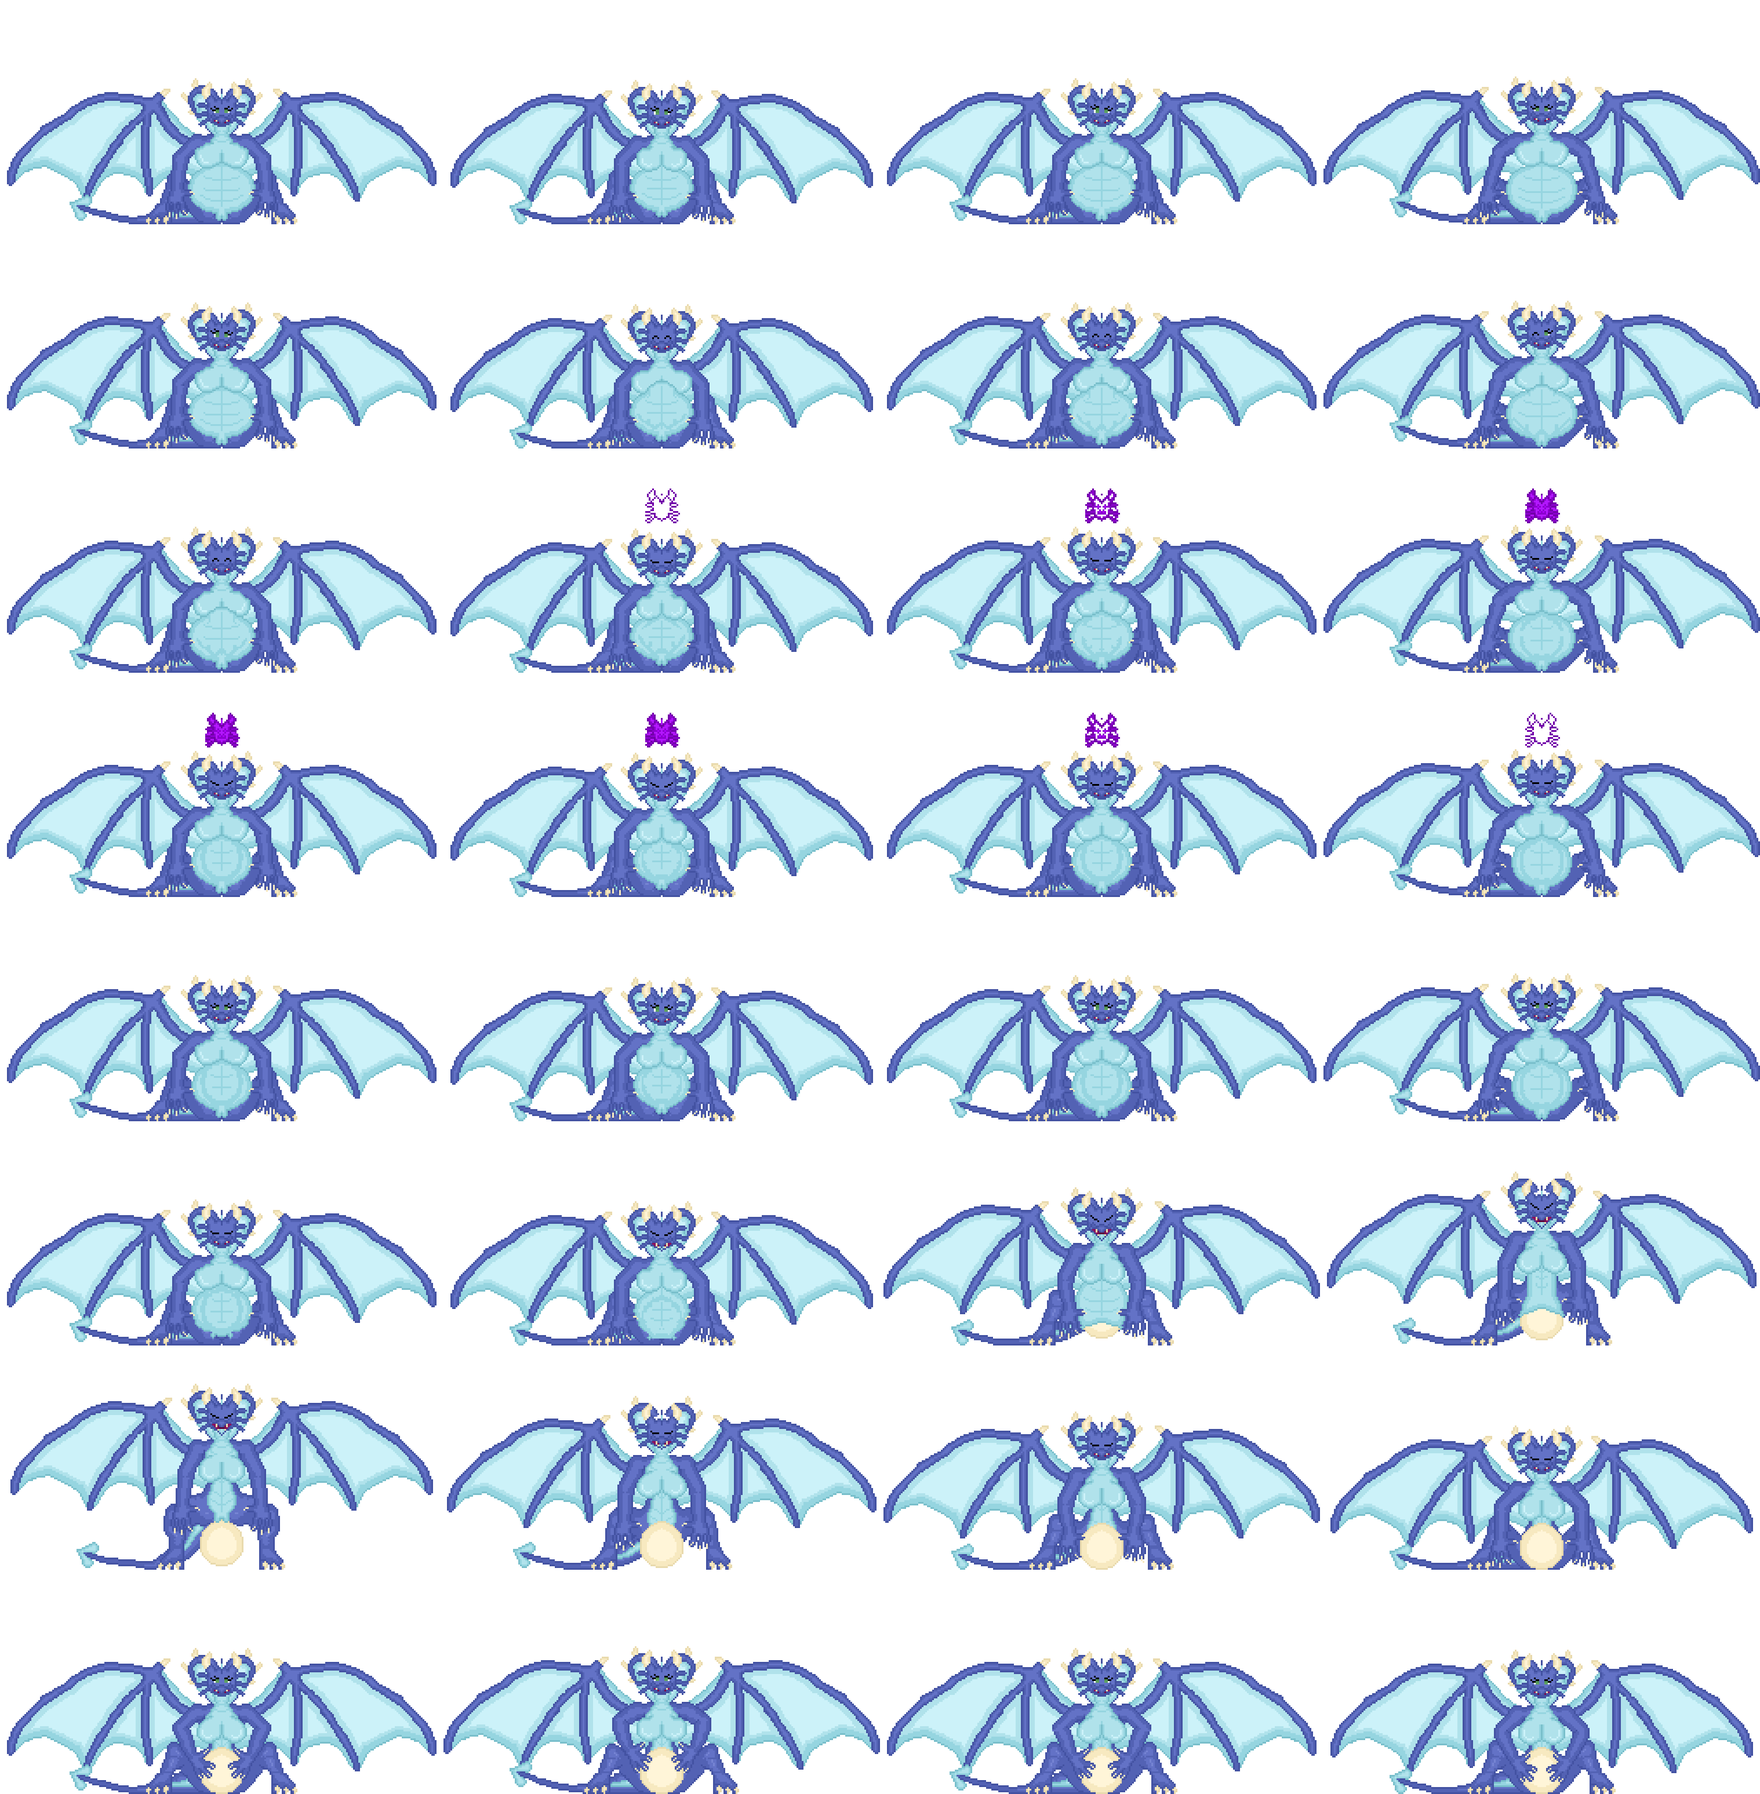
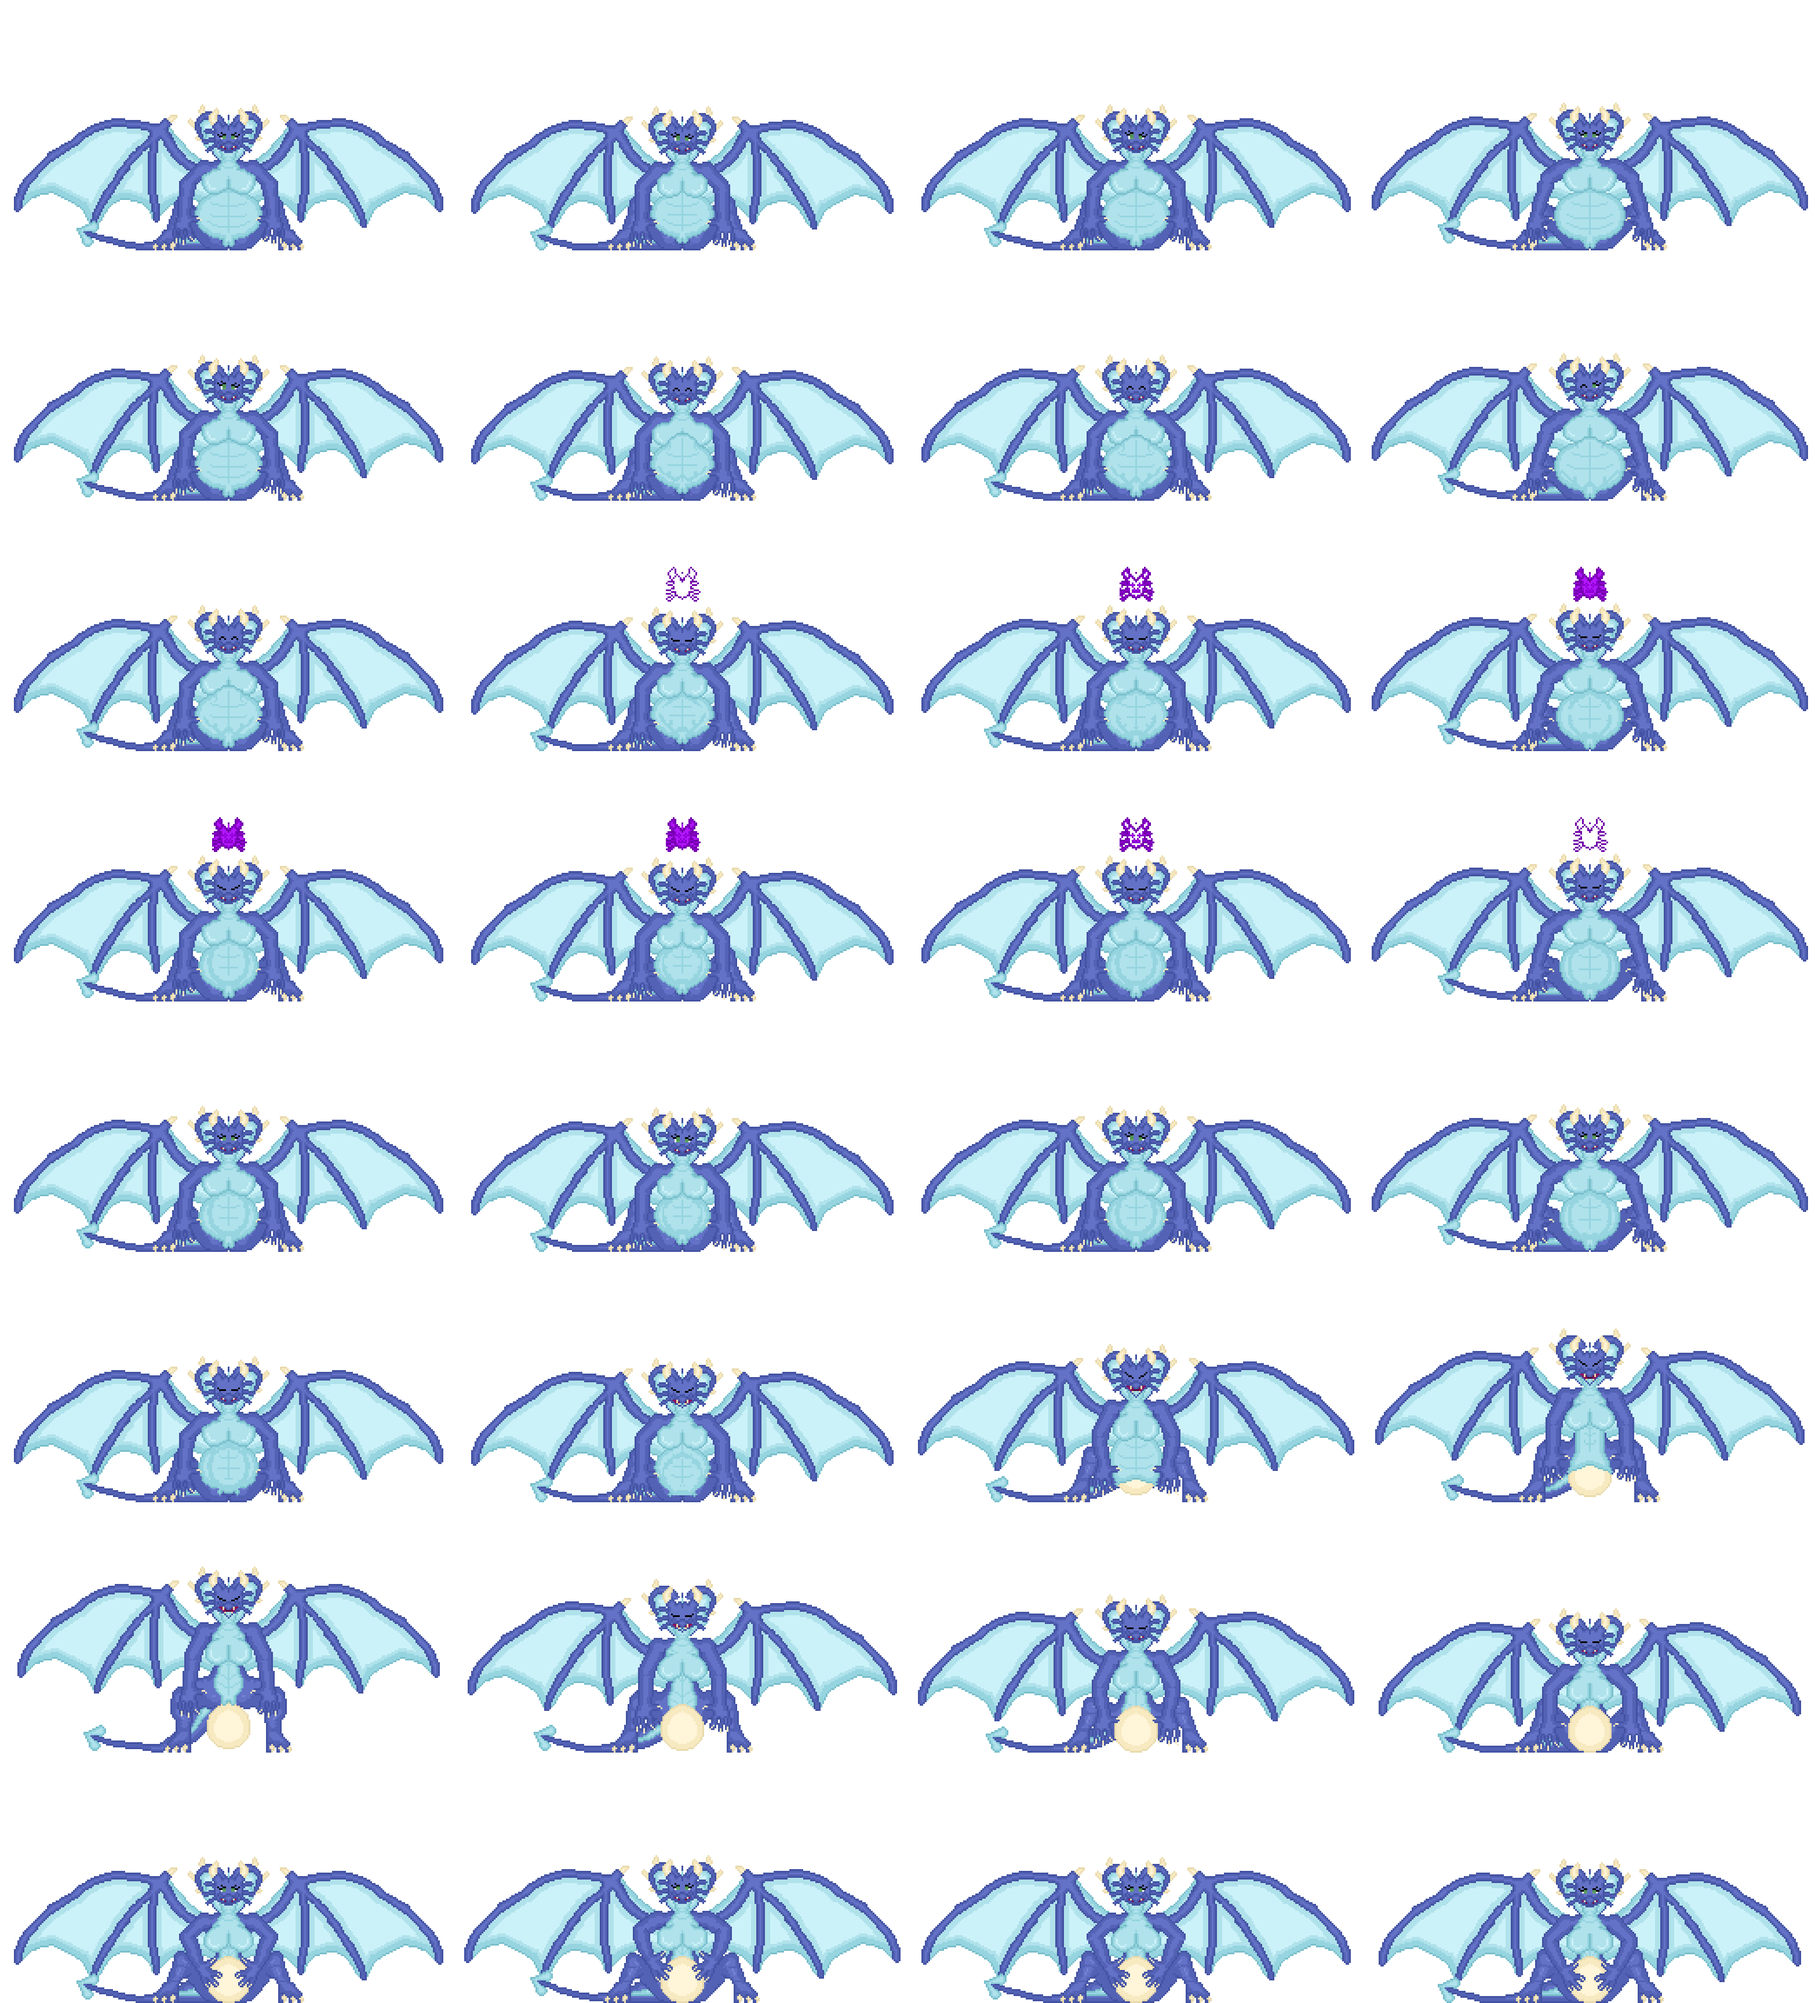
saving
istara TF MALE complete, now needs gameover

diff --git a/scripts/npcScripts/istara.js b/scripts/npcScripts/istara.js
@@ -8,10 +8,17 @@ class istara extends npc{
       this.anims.create({key: 'istaraUnderWater',frames: this.anims.generateFrameNames('istara', { start: 0, end: 0 }),frameRate: 7,repeat: -1});
       this.anims.create({key: 'istaraEmerge',frames: this.anims.generateFrameNames('istara', { start: 0, end: 15 }),frameRate: 7,repeat: 0});
       this.anims.create({key: 'istaraIdle',frames: this.anims.generateFrameNames('istara', { start: 16, end: 23 }),frameRate: 7,repeat: -1});
+
       this.anims.create({key: 'istaraStart',frames: this.anims.generateFrameNames('istara-male-tf', { start: 0, end: 3 }),frameRate: 7,repeat: -1});
-      this.anims.create({key: 'istaraEntering',frames: this.anims.generateFrameNames('istara-male-tf', { start: 4, end: 23 }),frameRate: 7,repeat: 0});
-      this.anims.create({key: 'istaraBelly1',frames: this.anims.generateFrameNames('istara-male-tf', { start: 24, end: 27 }),frameRate: 7,repeat: -1});
-      this.anims.create({key: 'istaraBelly2',frames: this.anims.generateFrameNames('istara-male-tf', { start: 28, end: 31 }),frameRate: 7,repeat: -1});
+      this.anims.create({key: 'istaraEntering',frames: this.anims.generateFrameNames('istara-male-tf', { start: 4, end: 22 }),frameRate: 7,repeat: 0});
+      this.anims.create({key: 'istaraGameover',frames: this.anims.generateFrameNames('istara-male-tf', { start: 23, end: 26 }),frameRate: 7,repeat: -1});
+      
+      this.anims.create({key: 'istaraBelly1',frames: this.anims.generateFrameNames('istara-gestate-tf', { start: 0, end: 3 }),frameRate: 7,repeat: -1});
+      this.anims.create({key: 'istaraBelly2',frames: this.anims.generateFrameNames('istara-gestate-tf', { start: 5, end: 8 }),frameRate: 7,repeat: -1});
+      this.anims.create({key: 'istaraEggTF',frames: this.anims.generateFrameNames('istara-gestate-tf', { start: 9, end: 15 }),frameRate: 7,repeat: 0});
+      this.anims.create({key: 'istaraEggBelly',frames: this.anims.generateFrameNames('istara-gestate-tf', { start: 16, end: 19 }),frameRate: 7,repeat: -1});
+      this.anims.create({key: 'istaraEggLaying',frames: this.anims.generateFrameNames('istara-gestate-tf', { start: 20, end: 27 }),frameRate: 7,repeat: 0});
+      this.anims.create({key: 'istaraEggCovet',frames: this.anims.generateFrameNames('istara-gestate-tf', { start: 28, end: 31 }),frameRate: 7,repeat: -1});
 
        //makes a key promptsa object to be displayed to the user
        this.npcKeyPrompts = new keyPrompts(scene, xPos, yPos + 50,'keyPrompts');
@@ -29,6 +36,7 @@ class istara extends npc{
 
        this.flag = "";
        this.dialogueCompleted = false;
+       this.dialogueAdded = false;
        this.completedText = false;
 
        this.animationPlayed = false;
@@ -376,8 +384,9 @@ class istara extends npc{
         this.inDialogue = true;
         
       // if the dialogue stage is at 14 and the player said yes, then add the unbirthing dialogue.
-      }else if(this.scene.sceneTextBox.amountWIsPressed === 14 && this.yes === true){
+      }else if(this.scene.sceneTextBox.amountWIsPressed === 14 && this.yes === true && this.dialogueAdded === false){
 
+          this.dialogueAdded = true;
           this.profileArray.push('istaraHappy');
           this.profileArray.push('istaraHappy');
           this.profileArray.push('istaraSquish');
@@ -388,7 +397,10 @@ class istara extends npc{
           this.profileArray.push('istaraSquish');
           this.profileArray.push('istaraSquish');
           this.profileArray.push('istaraHappy');
+          this.profileArray.push('istaraHappy');
+          this.profileArray.push('istaraHappy');
 
+          //note need to fix bug where the dialogue is added multiple times?
 
           this.textToDisplay += 
           'AWWW YOUR SO CUTE DOWN   '+
@@ -434,6 +446,7 @@ class istara extends npc{
           'ILL KEEP YOU SAFE MY     '+
           'PRECIOUS CHILD.          '+
           '                         ';
+          
       
       //handle animation 
       }else if(this.scene.sceneTextBox.amountWIsPressed === 15 && this.yes === true){
@@ -469,9 +482,53 @@ class istara extends npc{
           this.scene.sceneTextBox.progressDialogue();
         });
 
-      }else if(this.scene.sceneTextBox.amountWIsPressed === 19 && this.yes === true){
+      }else if(this.scene.sceneTextBox.amountWIsPressed === 21 && this.yes === true){
         
         this.anims.play('istaraBelly2',true);
+
+      }else if(this.scene.sceneTextBox.amountWIsPressed === 24 && this.yes === true && this.animationPlayed === false){
+        
+        //hide player
+        this.scene.player1.visible = false;
+        this.animationPlayed = true;
+
+        //apply interuption to dialogue
+        this.scene.sceneTextBox.textInterupt = true;
+
+        //hide ui and dialogue box.
+        this.scene.sceneTextBox.visible = false;
+
+        //play animation and on complete allow w to be pressed.
+        this.anims.play('istaraEggTF').once('animationcomplete', () => {
+          this.anims.play('istaraEggBelly',true);
+          this.scene.sceneTextBox.amountWIsPressed++;
+          this.scene.sceneTextBox.textInterupt = false;
+          this.animationPlayed = false;
+          //progress the dialogue by one stage so the button moves dialogue forward.
+          this.scene.sceneTextBox.progressDialogue();
+        });
+
+      }else if(this.scene.sceneTextBox.amountWIsPressed === 26 && this.yes === true && this.animationPlayed === false){
+        
+        //hide player
+        this.scene.player1.visible = false;
+        this.animationPlayed = true;
+
+        //apply interuption to dialogue
+        this.scene.sceneTextBox.textInterupt = true;
+
+        //hide ui and dialogue box.
+        this.scene.sceneTextBox.visible = false;
+
+        //play animation and on complete allow w to be pressed.
+        this.anims.play('istaraEggLaying').once('animationcomplete', () => {
+          this.anims.play('istaraEggCovet',true);
+          this.scene.sceneTextBox.amountWIsPressed++;
+          this.scene.sceneTextBox.textInterupt = false;
+          this.animationPlayed = false;
+          //progress the dialogue by one stage so the button moves dialogue forward.
+          this.scene.sceneTextBox.progressDialogue();
+        });
 
       }
     }

diff --git a/scripts/sceneScripts/levels/istarasCave.js b/scripts/sceneScripts/levels/istarasCave.js
@@ -32,6 +32,7 @@ class istarasCave extends defaultScene {
 
       this.load.spritesheet("istara" , "assets/npcs/istara.png" , {frameWidth: 783 , frameHeight: 432 });
       this.load.spritesheet("istara-male-tf" , "assets/npcs/istara-male-tf.png" , {frameWidth: 783 , frameHeight: 432 });
+      this.load.spritesheet("istara-gestate-tf" , "assets/npcs/istara-gestate-tf.png" , {frameWidth: 783 , frameHeight: 432 });
       this.load.spritesheet("istaraEmots" , "assets/hudElements/IstaraEmots.png" , {frameWidth: 75 , frameHeight: 66 });
 
       this.defaultPreload();
